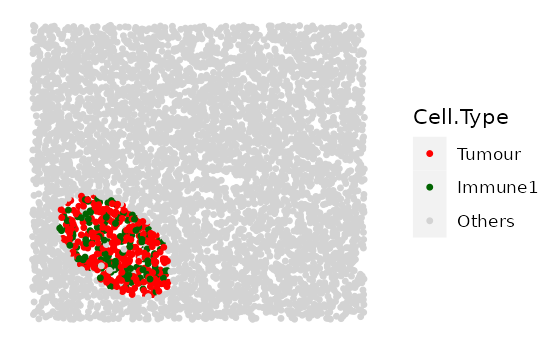
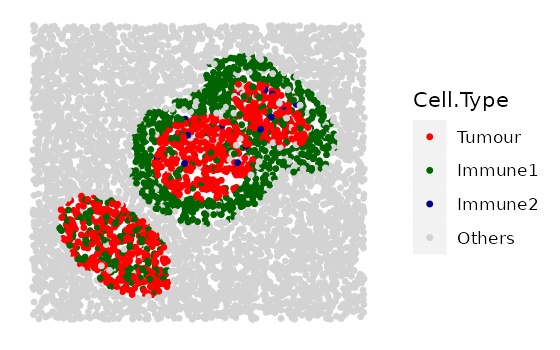
Built site for spaSim: 0.99.5@5d2f284

diff --git a/articles/vignette.html b/articles/vignette.html
@@ -33,7 +33,7 @@
       </button>
       <span class="navbar-brand">
         <a class="navbar-link" href="../index.html">spaSim</a>
-        <span class="version label label-default" data-toggle="tooltip" data-placement="bottom" title="">0.99.4</span>
+        <span class="version label label-default" data-toggle="tooltip" data-placement="bottom" title="">0.99.5</span>
       </span>
     </div>
 
@@ -74,7 +74,7 @@
       <h1 data-toc-skip>spaSim vignette</h1>
                         <h4 data-toc-skip class="author">Yuzhou Feng, Anna Trigos</h4>
                         
-            <h4 data-toc-skip class="date">19 October 2022</h4>
+            <h4 data-toc-skip class="date">24 October 2022</h4>
       
       
       <div class="hidden name"><code>vignette.Rmd</code></div>
@@ -116,7 +116,7 @@
 <span><span class="co">#&gt; To cite package 'spaSim' in publications use:</span></span>
 <span><span class="co">#&gt; </span></span>
 <span><span class="co">#&gt;   Feng Y, Trigos A (2022). _spaSim: Spatial point data simulator for</span></span>
-<span><span class="co">#&gt;   tissue images_. R package version 0.99.4,</span></span>
+<span><span class="co">#&gt;   tissue images_. R package version 0.99.5,</span></span>
 <span><span class="co">#&gt;   &lt;https://trigosteam.github.io/spaSim/&gt;.</span></span>
 <span><span class="co">#&gt; </span></span>
 <span><span class="co">#&gt; A BibTeX entry for LaTeX users is</span></span>
@@ -125,7 +125,7 @@
 <span><span class="co">#&gt;     title = {spaSim: Spatial point data simulator for tissue images},</span></span>
 <span><span class="co">#&gt;     author = {Yuzhou Feng and Anna Trigos},</span></span>
 <span><span class="co">#&gt;     year = {2022},</span></span>
-<span><span class="co">#&gt;     note = {R package version 0.99.4},</span></span>
+<span><span class="co">#&gt;     note = {R package version 0.99.5},</span></span>
 <span><span class="co">#&gt;     url = {https://trigosteam.github.io/spaSim/},</span></span>
 <span><span class="co">#&gt;   }</span></span></code></pre></div>
 </div>
@@ -362,9 +362,7 @@
 <span>   plot_image <span class="op">=</span> <span class="cn">TRUE</span>,</span>
 <span>   plot_categories <span class="op">=</span> <span class="fu"><a href="https://rdrr.io/r/base/c.html" class="external-link">c</a></span><span class="op">(</span><span class="st">"Tumour"</span>, <span class="st">"Immune1"</span>, <span class="st">"Immune2"</span>, <span class="st">"Others"</span><span class="op">)</span>,</span>
 <span>   plot_colours <span class="op">=</span> <span class="fu"><a href="https://rdrr.io/r/base/c.html" class="external-link">c</a></span><span class="op">(</span><span class="st">"red"</span>, <span class="st">"darkgreen"</span>, <span class="st">"darkblue"</span>, <span class="st">"lightgray"</span><span class="op">)</span><span class="op">)</span></span></code></pre></div>
-<p><img src="vignette_files/figure-html/unnamed-chunk-9-1.png" width="75%"></p>
-<pre><code><span><span class="co">#&gt; [1] "Immune2 cells were not found and not plotted."</span></span></code></pre>
-<p><img src="vignette_files/figure-html/unnamed-chunk-9-2.png" width="75%"><img src="vignette_files/figure-html/unnamed-chunk-9-3.png" width="75%"></p>
+<p><img src="vignette_files/figure-html/unnamed-chunk-9-1.png" width="75%"><img src="vignette_files/figure-html/unnamed-chunk-9-2.png" width="75%"></p>
 <p>The results display the construction of a complex image with multiple patterns. It started from a background image with cells of no identities, then tumour a cluster is layered on the background image, and finally, an immune ring that surrounds a tumour cluster is layered on the very top.</p>
 </div>
 </div>
@@ -377,7 +375,7 @@
 </h4>
 <p>This function aims to simulate a set of images that contain different proportions of specified cell types.</p>
 <p>In this example we simulate 4 images with 10% Tumour cells and an increasing number of Immune cells. We first specify the cell types and the proportions of each cell type in each image.</p>
-<div class="sourceCode" id="cb14"><pre class="downlit sourceCode r">
+<div class="sourceCode" id="cb13"><pre class="downlit sourceCode r">
 <code class="sourceCode R"><span><span class="co">#cell types present in each image</span></span>
 <span><span class="va">idents</span> <span class="op">&lt;-</span> <span class="fu"><a href="https://rdrr.io/r/base/c.html" class="external-link">c</a></span><span class="op">(</span><span class="st">"Tumour"</span>, <span class="st">"Immune"</span>, <span class="st">"Others"</span><span class="op">)</span></span>
 <span><span class="co"># Each vector corresponds to each cell type in `idents`. </span></span>
@@ -402,7 +400,7 @@
 <p>This function aims to simulate a set of images that contain different tumour/immune clusters.</p>
 <p>Note that in this function users cannot manually define the base shape and the primary cell type of the clusters. There are three options (<code>1</code>, <code>2</code>, and <code>3</code>) for the base shape available in the <code>cluster_shape</code> argument. <code>1</code> for a simple cluster where all cells are “Tumour”, <code>2</code> for a tumour cluster where the primary cell type is “Tumour” and there is infiltration of types “Immune” and “Others”, and <code>3</code> for an immune cluster where the primary cell type is “Immune” and the infiltration cell types are “Immune1” and “Others”.</p>
 <p>Here we simulate 4 images with increasing tumour cluster sizes using the cluster shape <code>1</code>.</p>
-<div class="sourceCode" id="cb15"><pre class="downlit sourceCode r">
+<div class="sourceCode" id="cb14"><pre class="downlit sourceCode r">
 <code class="sourceCode R"><span><span class="co"># if a property is fixed, use a number for that parameter.</span></span>
 <span><span class="co"># if a property spans a range, use a numeric vector for that parameter, e.g.</span></span>
 <span><span class="va">range_of_size</span> <span class="op">&lt;-</span> <span class="fu"><a href="https://rdrr.io/r/base/seq.html" class="external-link">seq</a></span><span class="op">(</span><span class="fl">200</span>, <span class="fl">500</span>, <span class="fl">100</span><span class="op">)</span></span>
@@ -418,7 +416,7 @@
 <span>                               plot_colours <span class="op">=</span> <span class="fu"><a href="https://rdrr.io/r/base/c.html" class="external-link">c</a></span><span class="op">(</span><span class="st">"red"</span>, <span class="st">"darkgreen"</span>, <span class="st">"lightgray"</span><span class="op">)</span><span class="op">)</span></span></code></pre></div>
 <p><img src="vignette_files/figure-html/unnamed-chunk-11-1.png" width="75%"><img src="vignette_files/figure-html/unnamed-chunk-11-2.png" width="75%"><img src="vignette_files/figure-html/unnamed-chunk-11-3.png" width="75%"><img src="vignette_files/figure-html/unnamed-chunk-11-4.png" width="75%"></p>
 <p>We will also include one example for shape <code>2</code> and one example for shape <code>3</code>.</p>
-<div class="sourceCode" id="cb16"><pre class="downlit sourceCode r">
+<div class="sourceCode" id="cb15"><pre class="downlit sourceCode r">
 <code class="sourceCode R"><span><span class="co"># shape "2" - Tumour cluster with more and more immune infiltration</span></span>
 <span><span class="va">range_of_infiltration</span> <span class="op">&lt;-</span> <span class="fu"><a href="https://rdrr.io/r/base/c.html" class="external-link">c</a></span><span class="op">(</span><span class="fl">0.1</span>, <span class="fl">0.3</span>, <span class="fl">0.5</span><span class="op">)</span></span>
 <span><span class="va">cluster_list</span> <span class="op">&lt;-</span> </span>
@@ -432,7 +430,7 @@
 <span>                                plot_categories <span class="op">=</span> <span class="fu"><a href="https://rdrr.io/r/base/c.html" class="external-link">c</a></span><span class="op">(</span><span class="st">"Tumour"</span> , <span class="st">"Immune"</span>, <span class="st">"Others"</span><span class="op">)</span>,</span>
 <span>                                plot_colours <span class="op">=</span> <span class="fu"><a href="https://rdrr.io/r/base/c.html" class="external-link">c</a></span><span class="op">(</span><span class="st">"red"</span>,<span class="st">"darkgreen"</span>, <span class="st">"lightgray"</span><span class="op">)</span><span class="op">)</span></span></code></pre></div>
 <p><img src="vignette_files/figure-html/unnamed-chunk-12-1.png" width="75%"><img src="vignette_files/figure-html/unnamed-chunk-12-2.png" width="75%"><img src="vignette_files/figure-html/unnamed-chunk-12-3.png" width="75%"></p>
-<div class="sourceCode" id="cb17"><pre class="downlit sourceCode r">
+<div class="sourceCode" id="cb16"><pre class="downlit sourceCode r">
 <code class="sourceCode R"><span><span class="co"># shape "3" - Immune cluster</span></span>
 <span><span class="va">cluster_list</span> <span class="op">&lt;-</span> </span>
 <span>  <span class="fu"><a href="../reference/multiple_images_with_clusters.html">multiple_images_with_clusters</a></span><span class="op">(</span>bg_sample <span class="op">=</span> <span class="va">bg1</span>,</span>
@@ -455,7 +453,7 @@
 <p>For <code>3</code>: - primary cluster cell type is “Tumour” - cluster infiltration cell types are “Immune” and “Others” - primary ring cell type is “Immune” - ring infiltration type is “Tumour” and “Others”</p>
 <p>The cluster size, infiltration proportions, cluster location, ring width, and ring infiltration proportions can be defined.</p>
 <p>Here we show 3 images with increasingly wider immune rings. First define any parameter that has a range.</p>
-<div class="sourceCode" id="cb18"><pre class="downlit sourceCode r">
+<div class="sourceCode" id="cb17"><pre class="downlit sourceCode r">
 <code class="sourceCode R"><span><span class="co"># if a property is to be fixed, use a number for that parameter.</span></span>
 <span><span class="co"># if a property is to span a range, use a numeric vector for that parameter, e.g.</span></span>
 <span><span class="va">range_ring_width</span> <span class="op">&lt;-</span> <span class="fu"><a href="https://rdrr.io/r/base/seq.html" class="external-link">seq</a></span><span class="op">(</span><span class="fl">50</span>, <span class="fl">120</span>, <span class="fl">30</span><span class="op">)</span></span>
@@ -476,7 +474,7 @@
 <span>                                   plot_colours <span class="op">=</span> <span class="fu"><a href="https://rdrr.io/r/base/c.html" class="external-link">c</a></span><span class="op">(</span><span class="st">"red"</span>, <span class="st">"darkgreen"</span>, <span class="st">"lightgray"</span><span class="op">)</span><span class="op">)</span></span></code></pre></div>
 <p><img src="vignette_files/figure-html/unnamed-chunk-14-1.png" width="75%"><img src="vignette_files/figure-html/unnamed-chunk-14-2.png" width="75%"><img src="vignette_files/figure-html/unnamed-chunk-14-3.png" width="75%"></p>
 <p>We will also include one example for ring shape <code>2</code> and one example for ring shape <code>3</code>.</p>
-<div class="sourceCode" id="cb19"><pre class="downlit sourceCode r">
+<div class="sourceCode" id="cb18"><pre class="downlit sourceCode r">
 <code class="sourceCode R"><span><span class="co"># shape "2" - Immune ring at different locations</span></span>
 <span><span class="va">cluster_loc_x</span> <span class="op">&lt;-</span> <span class="fu"><a href="https://rdrr.io/r/base/c.html" class="external-link">c</a></span><span class="op">(</span><span class="op">-</span><span class="fl">300</span>, <span class="fl">0</span>, <span class="fl">300</span><span class="op">)</span></span>
 <span><span class="va">cluster_loc_y</span> <span class="op">&lt;-</span> <span class="fu"><a href="https://rdrr.io/r/base/c.html" class="external-link">c</a></span><span class="op">(</span><span class="op">-</span><span class="fl">300</span>, <span class="fl">0</span>, <span class="fl">300</span><span class="op">)</span></span>
@@ -493,7 +491,7 @@
 <span>                                   plot_categories <span class="op">=</span> <span class="fu"><a href="https://rdrr.io/r/base/c.html" class="external-link">c</a></span><span class="op">(</span><span class="st">"Tumour"</span>, <span class="st">"Immune"</span>, <span class="st">"Others"</span><span class="op">)</span>,</span>
 <span>                                   plot_colours <span class="op">=</span> <span class="fu"><a href="https://rdrr.io/r/base/c.html" class="external-link">c</a></span><span class="op">(</span><span class="st">"red"</span>, <span class="st">"darkgreen"</span>, <span class="st">"lightgray"</span><span class="op">)</span><span class="op">)</span></span></code></pre></div>
 <p><img src="vignette_files/figure-html/unnamed-chunk-15-1.png" width="75%"><img src="vignette_files/figure-html/unnamed-chunk-15-2.png" width="75%"><img src="vignette_files/figure-html/unnamed-chunk-15-3.png" width="75%"></p>
-<div class="sourceCode" id="cb20"><pre class="downlit sourceCode r">
+<div class="sourceCode" id="cb19"><pre class="downlit sourceCode r">
 <code class="sourceCode R"><span><span class="co"># shape "3" - Immune ring has different "Tumour" proportions</span></span>
 <span><span class="va">prop_ring_infiltration</span> <span class="op">&lt;-</span> <span class="fu"><a href="https://rdrr.io/r/base/c.html" class="external-link">c</a></span><span class="op">(</span><span class="fl">0.1</span>, <span class="fl">0.2</span>, <span class="fl">0.3</span><span class="op">)</span></span>
 <span><span class="va">immune_ring_list</span> <span class="op">&lt;-</span> </span>
@@ -516,7 +514,7 @@
 </h3>
 <p>As <code>SPIAT</code> uses SingleCellExperiment object as the basic data structure for image processing and analysis, the simulated images from <code>spaSim</code> can be directly used as input in <code>SPIAT</code> functions. Examples in <code>SPIAT</code> packages use the images simulated by <code>spaSim</code>.</p>
 <p>Here is an example of using <code>SPIAT</code> function on <code>spaSim</code> image. We use <code>simulated_image</code> generated from one of the previous sections.</p>
-<div class="sourceCode" id="cb21"><pre class="downlit sourceCode r">
+<div class="sourceCode" id="cb20"><pre class="downlit sourceCode r">
 <code class="sourceCode R"><span><span class="co"># The following code will not run as SPIAT is still not released yet. You can try out the dev version on Github~</span></span>
 <span><span class="co"># if (requireNamespace("SPIAT", quietly = TRUE)) {</span></span>
 <span><span class="co">#   # visualise</span></span>
@@ -560,7 +558,7 @@
 </ul>
 <p>This package was developed using <em><a href="https://bioconductor.org/packages/3.15/biocthis" class="external-link">biocthis</a></em>.</p>
 <p>Code for creating the vignette</p>
-<div class="sourceCode" id="cb22"><pre class="downlit sourceCode r">
+<div class="sourceCode" id="cb21"><pre class="downlit sourceCode r">
 <code class="sourceCode R"><span><span class="co">## Create the vignette</span></span>
 <span><span class="kw"><a href="https://rdrr.io/r/base/library.html" class="external-link">library</a></span><span class="op">(</span><span class="st"><a href="https://github.com/rstudio/rmarkdown" class="external-link">"rmarkdown"</a></span><span class="op">)</span></span>
 <span><span class="fu"><a href="https://rdrr.io/r/base/system.time.html" class="external-link">system.time</a></span><span class="op">(</span><span class="fu"><a href="https://pkgs.rstudio.com/rmarkdown/reference/render.html" class="external-link">render</a></span><span class="op">(</span><span class="st">"vignette.Rmd"</span>, <span class="st">"BiocStyle::html_document"</span><span class="op">)</span><span class="op">)</span></span>
@@ -568,9 +566,9 @@
 <span><span class="kw"><a href="https://rdrr.io/r/base/library.html" class="external-link">library</a></span><span class="op">(</span><span class="st"><a href="https://yihui.org/knitr/" class="external-link">"knitr"</a></span><span class="op">)</span></span>
 <span><span class="fu"><a href="https://rdrr.io/pkg/knitr/man/knit.html" class="external-link">knit</a></span><span class="op">(</span><span class="st">"vignette.Rmd"</span>, tangle <span class="op">=</span> <span class="cn">TRUE</span><span class="op">)</span></span></code></pre></div>
 <p>Date the vignette was generated.</p>
-<pre><code><span><span class="co">#&gt; [1] "2022-10-19 05:21:00 UTC"</span></span></code></pre>
+<pre><code><span><span class="co">#&gt; [1] "2022-10-24 04:40:17 UTC"</span></span></code></pre>
 <p>Wallclock time spent generating the vignette.</p>
-<pre><code><span><span class="co">#&gt; Time difference of 59.242 secs</span></span></code></pre>
+<pre><code><span><span class="co">#&gt; Time difference of 1.695 mins</span></span></code></pre>
 <p><code>R</code> session information.</p>
 <pre><code><span><span class="co">#&gt; <span style="color: #00BBBB; font-weight: bold;">─ Session info ───────────────────────────────────────────────────────────────────────────────────────────────────────</span></span></span>
 <span><span class="co">#&gt;  <span style="color: #555555; font-style: italic;">setting </span> <span style="color: #555555; font-style: italic;">value</span></span></span>
@@ -582,7 +580,7 @@
 <span><span class="co">#&gt;  collate  C.UTF-8</span></span>
 <span><span class="co">#&gt;  ctype    C.UTF-8</span></span>
 <span><span class="co">#&gt;  tz       UTC</span></span>
-<span><span class="co">#&gt;  date     2022-10-19</span></span>
+<span><span class="co">#&gt;  date     2022-10-24</span></span>
 <span><span class="co">#&gt;  pandoc   2.7.3 @ /usr/bin/ (via rmarkdown)</span></span>
 <span><span class="co">#&gt; </span></span>
 <span><span class="co">#&gt; <span style="color: #00BBBB; font-weight: bold;">─ Packages ───────────────────────────────────────────────────────────────────────────────────────────────────────────</span></span></span>
@@ -631,7 +629,7 @@
 <span><span class="co">#&gt;  httr                   1.4.4    <span style="color: #555555;">2022-08-17</span> <span style="color: #555555;">[1]</span> <span style="color: #BB00BB; font-weight: bold;">RSPM</span></span></span>
 <span><span class="co">#&gt;  IRanges                2.30.1   <span style="color: #555555;">2022-08-18</span> <span style="color: #555555;">[1]</span> <span style="color: #555555;">Bioconductor</span></span></span>
 <span><span class="co">#&gt;  jquerylib              0.1.4    <span style="color: #555555;">2021-04-26</span> <span style="color: #555555;">[1]</span> <span style="color: #BB00BB; font-weight: bold;">RSPM</span></span></span>
-<span><span class="co">#&gt;  jsonlite               1.8.2    <span style="color: #555555;">2022-10-02</span> <span style="color: #555555;">[1]</span> <span style="color: #BB00BB; font-weight: bold;">RSPM</span></span></span>
+<span><span class="co">#&gt;  jsonlite               1.8.3    <span style="color: #555555;">2022-10-21</span> <span style="color: #555555;">[1]</span> <span style="color: #555555;">CRAN (R 4.2.1)</span></span></span>
 <span><span class="co">#&gt;  knitr                  1.40     <span style="color: #555555;">2022-08-24</span> <span style="color: #555555;">[1]</span> <span style="color: #BB00BB; font-weight: bold;">RSPM</span></span></span>
 <span><span class="co">#&gt;  labeling               0.4.2    <span style="color: #555555;">2020-10-20</span> <span style="color: #555555;">[1]</span> <span style="color: #BB00BB; font-weight: bold;">RSPM</span></span></span>
 <span><span class="co">#&gt;  lattice                0.20-45  <span style="color: #555555;">2021-09-22</span> <span style="color: #555555;">[2]</span> <span style="color: #555555;">CRAN (R 4.2.1)</span></span></span>
@@ -650,7 +648,7 @@
 <span><span class="co">#&gt;  pkgconfig              2.0.3    <span style="color: #555555;">2019-09-22</span> <span style="color: #555555;">[1]</span> <span style="color: #BB00BB; font-weight: bold;">RSPM</span></span></span>
 <span><span class="co">#&gt;  pkgdown                2.0.6    <span style="color: #555555;">2022-07-16</span> <span style="color: #555555;">[1]</span> <span style="color: #BB00BB; font-weight: bold;">RSPM</span></span></span>
 <span><span class="co">#&gt;  plyr                   1.8.7    <span style="color: #555555;">2022-03-24</span> <span style="color: #555555;">[1]</span> <span style="color: #BB00BB; font-weight: bold;">RSPM</span></span></span>
-<span><span class="co">#&gt;  polyclip               1.10-0   <span style="color: #555555;">2019-03-14</span> <span style="color: #555555;">[1]</span> <span style="color: #BB00BB; font-weight: bold;">RSPM</span></span></span>
+<span><span class="co">#&gt;  polyclip               1.10-4   <span style="color: #555555;">2022-10-20</span> <span style="color: #555555;">[1]</span> <span style="color: #BB00BB; font-weight: bold;">RSPM</span></span></span>
 <span><span class="co">#&gt;  purrr                  0.3.5    <span style="color: #555555;">2022-10-06</span> <span style="color: #555555;">[1]</span> <span style="color: #BB00BB; font-weight: bold;">RSPM</span></span></span>
 <span><span class="co">#&gt;  R.methodsS3            1.8.2    <span style="color: #555555;">2022-06-13</span> <span style="color: #555555;">[1]</span> <span style="color: #BB00BB; font-weight: bold;">RSPM</span></span></span>
 <span><span class="co">#&gt;  R.oo                   1.25.0   <span style="color: #555555;">2022-06-12</span> <span style="color: #555555;">[1]</span> <span style="color: #BB00BB; font-weight: bold;">RSPM</span></span></span>
@@ -674,12 +672,12 @@
 <span><span class="co">#&gt;  sessioninfo          * 1.2.2    <span style="color: #555555;">2021-12-06</span> <span style="color: #555555;">[1]</span> <span style="color: #BB00BB; font-weight: bold;">RSPM</span></span></span>
 <span><span class="co">#&gt;  SingleCellExperiment   1.18.1   <span style="color: #555555;">2022-10-02</span> <span style="color: #555555;">[1]</span> <span style="color: #555555;">Bioconductor</span></span></span>
 <span><span class="co">#&gt;  sparseMatrixStats      1.8.0    <span style="color: #555555;">2022-04-26</span> <span style="color: #555555;">[1]</span> <span style="color: #555555;">Bioconductor</span></span></span>
-<span><span class="co">#&gt;  spaSim               * 0.99.4   <span style="color: #555555;">2022-10-19</span> <span style="color: #555555;">[1]</span> <span style="color: #BB00BB; font-weight: bold;">local</span></span></span>
+<span><span class="co">#&gt;  spaSim               * 0.99.5   <span style="color: #555555;">2022-10-24</span> <span style="color: #555555;">[1]</span> <span style="color: #BB00BB; font-weight: bold;">local</span></span></span>
 <span><span class="co">#&gt;  SpatialExperiment      1.6.1    <span style="color: #555555;">2022-08-09</span> <span style="color: #555555;">[1]</span> <span style="color: #555555;">Bioconductor</span></span></span>
-<span><span class="co">#&gt;  spatstat.data          2.2-0    <span style="color: #555555;">2022-04-18</span> <span style="color: #555555;">[1]</span> <span style="color: #BB00BB; font-weight: bold;">RSPM</span></span></span>
+<span><span class="co">#&gt;  spatstat.data          3.0-0    <span style="color: #555555;">2022-10-21</span> <span style="color: #555555;">[1]</span> <span style="color: #555555;">CRAN (R 4.2.1)</span></span></span>
 <span><span class="co">#&gt;  spatstat.geom          2.4-0    <span style="color: #555555;">2022-03-29</span> <span style="color: #555555;">[1]</span> <span style="color: #BB00BB; font-weight: bold;">RSPM</span></span></span>
 <span><span class="co">#&gt;  spatstat.random        2.2-0    <span style="color: #555555;">2022-03-30</span> <span style="color: #555555;">[1]</span> <span style="color: #BB00BB; font-weight: bold;">RSPM</span></span></span>
-<span><span class="co">#&gt;  spatstat.utils         2.3-1    <span style="color: #555555;">2022-05-06</span> <span style="color: #555555;">[1]</span> <span style="color: #BB00BB; font-weight: bold;">RSPM</span></span></span>
+<span><span class="co">#&gt;  spatstat.utils         3.0-1    <span style="color: #555555;">2022-10-19</span> <span style="color: #555555;">[1]</span> <span style="color: #BB00BB; font-weight: bold;">RSPM</span></span></span>
 <span><span class="co">#&gt;  stringi                1.7.8    <span style="color: #555555;">2022-07-11</span> <span style="color: #555555;">[1]</span> <span style="color: #BB00BB; font-weight: bold;">RSPM</span></span></span>
 <span><span class="co">#&gt;  stringr                1.4.1    <span style="color: #555555;">2022-08-20</span> <span style="color: #555555;">[1]</span> <span style="color: #BB00BB; font-weight: bold;">RSPM</span></span></span>
 <span><span class="co">#&gt;  SummarizedExperiment   1.26.1   <span style="color: #555555;">2022-04-29</span> <span style="color: #555555;">[1]</span> <span style="color: #555555;">Bioconductor</span></span></span>
@@ -688,7 +686,7 @@
 <span><span class="co">#&gt;  tibble                 3.1.8    <span style="color: #555555;">2022-07-22</span> <span style="color: #555555;">[1]</span> <span style="color: #BB00BB; font-weight: bold;">RSPM</span></span></span>
 <span><span class="co">#&gt;  tidyselect             1.2.0    <span style="color: #555555;">2022-10-10</span> <span style="color: #555555;">[1]</span> <span style="color: #BB00BB; font-weight: bold;">RSPM</span></span></span>
 <span><span class="co">#&gt;  utf8                   1.2.2    <span style="color: #555555;">2021-07-24</span> <span style="color: #555555;">[1]</span> <span style="color: #BB00BB; font-weight: bold;">RSPM</span></span></span>
-<span><span class="co">#&gt;  vctrs                  0.4.2    <span style="color: #555555;">2022-09-29</span> <span style="color: #555555;">[1]</span> <span style="color: #BB00BB; font-weight: bold;">RSPM</span></span></span>
+<span><span class="co">#&gt;  vctrs                  0.5.0    <span style="color: #555555;">2022-10-22</span> <span style="color: #555555;">[1]</span> <span style="color: #555555;">CRAN (R 4.2.1)</span></span></span>
 <span><span class="co">#&gt;  xfun                   0.34     <span style="color: #555555;">2022-10-18</span> <span style="color: #555555;">[1]</span> <span style="color: #555555;">CRAN (R 4.2.1)</span></span></span>
 <span><span class="co">#&gt;  xml2                   1.3.3    <span style="color: #555555;">2021-11-30</span> <span style="color: #555555;">[1]</span> <span style="color: #BB00BB; font-weight: bold;">RSPM</span></span></span>
 <span><span class="co">#&gt;  XVector                0.36.0   <span style="color: #555555;">2022-04-26</span> <span style="color: #555555;">[1]</span> <span style="color: #555555;">Bioconductor</span></span></span>
@@ -708,7 +706,7 @@
 <a id="bib-allaire2022rmarkdown"></a><a href="#cite-allaire2022rmarkdown">[1]</a><cite> J. Allaire, Y. Xie, J. McPherson, et al. <em>rmarkdown: Dynamic Documents for R</em>. R package version 2.17. 2022. URL: <a href="https://github.com/rstudio/rmarkdown" class="external-link">https://github.com/rstudio/rmarkdown</a>.</cite>
 </p>
 <p>
-<a id="bib-feng2022spasim"></a><a href="#cite-feng2022spasim">[2]</a><cite> Y. Feng and A. Trigos. <em>spaSim: Spatial point data simulator for tissue images</em>. R package version 0.99.4. 2022. URL: <a href="https://trigosteam.github.io/spaSim/" class="external-link">https://trigosteam.github.io/spaSim/</a>.</cite>
+<a id="bib-feng2022spasim"></a><a href="#cite-feng2022spasim">[2]</a><cite> Y. Feng and A. Trigos. <em>spaSim: Spatial point data simulator for tissue images</em>. R package version 0.99.5. 2022. URL: <a href="https://trigosteam.github.io/spaSim/" class="external-link">https://trigosteam.github.io/spaSim/</a>.</cite>
 </p>
 <p>
 <a id="bib-mclean2017refmanager"></a><a href="#cite-mclean2017refmanager">[3]</a><cite> M. W. McLean. “RefManageR: Import and Manage BibTeX and BibLaTeX References in R”. In: <em>The Journal of Open Source Software</em> (2017). DOI: <a href="https://doi.org/10.21105/joss.00338" class="external-link">10.21105/joss.00338</a>.</cite>

diff --git a/authors.html b/authors.html
@@ -17,7 +17,7 @@
       </button>
       <span class="navbar-brand">
         <a class="navbar-link" href="index.html">spaSim</a>
-        <span class="version label label-default" data-toggle="tooltip" data-placement="bottom" title="">0.99.4</span>
+        <span class="version label label-default" data-toggle="tooltip" data-placement="bottom" title="">0.99.5</span>
       </span>
     </div>
 
@@ -71,13 +71,13 @@
 
     <p>Feng Y, Trigos A (2022).
 <em>spaSim: Spatial point data simulator for tissue images</em>.
-R package version 0.99.4, <a href="https://trigosteam.github.io/spaSim/" class="external-link">https://trigosteam.github.io/spaSim/</a>. 
+R package version 0.99.5, <a href="https://trigosteam.github.io/spaSim/" class="external-link">https://trigosteam.github.io/spaSim/</a>. 
 </p>
     <pre>@Manual{,
   title = {spaSim: Spatial point data simulator for tissue images},
   author = {Yuzhou Feng and Anna Trigos},
   year = {2022},
-  note = {R package version 0.99.4},
+  note = {R package version 0.99.5},
   url = {https://trigosteam.github.io/spaSim/},
 }</pre>
 

diff --git a/news/index.html b/news/index.html
@@ -17,7 +17,7 @@
       </button>
       <span class="navbar-brand">
         <a class="navbar-link" href="../index.html">spaSim</a>
-        <span class="version label label-default" data-toggle="tooltip" data-placement="bottom" title="">0.99.4</span>
+        <span class="version label label-default" data-toggle="tooltip" data-placement="bottom" title="">0.99.5</span>
       </span>
     </div>
 
@@ -51,6 +51,11 @@
       
     </div>
 
+    <div class="section level2">
+<h2 class="page-header" data-toc-text="0.99.5" id="spasim-0995">spaSim 0.99.5<a class="anchor" aria-label="anchor" href="#spasim-0995"></a></h2>
+<p>SIGNIFICANT USER CHANGE</p>
+<ul><li>
+<code><a href="../reference/TIS.html">TIS()</a></code> only plots one plot when arg <code>plot_image</code> is <code>TRUE</code>.</li></ul></div>
     <div class="section level2">
 <h2 class="page-header" data-toc-text="0.99.4" id="spasim-0994">spaSim 0.99.4<a class="anchor" aria-label="anchor" href="#spasim-0994"></a></h2>
 <p>SIGNIFICANT USER CHANGE</p>

diff --git a/reference/TIS.html b/reference/TIS.html
@@ -28,7 +28,7 @@ simulate_stripes"><!-- mathjax --><script src="https://cdnjs.cloudflare.com/ajax
       </button>
       <span class="navbar-brand">
         <a class="navbar-link" href="../index.html">spaSim</a>
-        <span class="version label label-default" data-toggle="tooltip" data-placement="bottom" title="">0.99.4</span>
+        <span class="version label label-default" data-toggle="tooltip" data-placement="bottom" title="">0.99.5</span>
       </span>
     </div>
 

diff --git a/reference/format_spe.html b/reference/format_spe.html
@@ -18,7 +18,7 @@ object where the count assay is empty."><!-- mathjax --><script src="https://cdn
       </button>
       <span class="navbar-brand">
         <a class="navbar-link" href="../index.html">spaSim</a>
-        <span class="version label label-default" data-toggle="tooltip" data-placement="bottom" title="">0.99.4</span>
+        <span class="version label label-default" data-toggle="tooltip" data-placement="bottom" title="">0.99.5</span>
       </span>
     </div>
 

diff --git a/reference/multiple_background_images.html b/reference/multiple_background_images.html
@@ -20,7 +20,7 @@ image simulation without the specification of any argument."><!-- mathjax --><sc
       </button>
       <span class="navbar-brand">
         <a class="navbar-link" href="../index.html">spaSim</a>
-        <span class="version label label-default" data-toggle="tooltip" data-placement="bottom" title="">0.99.4</span>
+        <span class="version label label-default" data-toggle="tooltip" data-placement="bottom" title="">0.99.5</span>
       </span>
     </div>
 

diff --git a/reference/multiple_images_with_clusters.html b/reference/multiple_images_with_clusters.html
@@ -21,7 +21,7 @@ without the specification of any argument."><!-- mathjax --><script src="https:/
       </button>
       <span class="navbar-brand">
         <a class="navbar-link" href="../index.html">spaSim</a>
-        <span class="version label label-default" data-toggle="tooltip" data-placement="bottom" title="">0.99.4</span>
+        <span class="version label label-default" data-toggle="tooltip" data-placement="bottom" title="">0.99.5</span>
       </span>
     </div>
 

diff --git a/reference/multiple_images_with_immune_rings.html b/reference/multiple_images_with_immune_rings.html
@@ -20,7 +20,7 @@ specification of any argument."><!-- mathjax --><script src="https://cdnjs.cloud
       </button>
       <span class="navbar-brand">
         <a class="navbar-link" href="../index.html">spaSim</a>
-        <span class="version label label-default" data-toggle="tooltip" data-placement="bottom" title="">0.99.4</span>
+        <span class="version label label-default" data-toggle="tooltip" data-placement="bottom" title="">0.99.5</span>
       </span>
     </div>
 

diff --git a/reference/plot_cells.html b/reference/plot_cells.html
@@ -19,7 +19,7 @@ will be coloured "lightgrey" and labled "Unspecified".'><!-- mathjax --><script 
       </button>
       <span class="navbar-brand">
         <a class="navbar-link" href="../index.html">spaSim</a>
-        <span class="version label label-default" data-toggle="tooltip" data-placement="bottom" title="">0.99.4</span>
+        <span class="version label label-default" data-toggle="tooltip" data-placement="bottom" title="">0.99.5</span>
       </span>
     </div>
 

diff --git a/reference/simulate_background_cells.html b/reference/simulate_background_cells.html
@@ -21,7 +21,7 @@ function uses rHardcore spatstat.random.'><!-- mathjax --><script src="https://c
       </button>
       <span class="navbar-brand">
         <a class="navbar-link" href="../index.html">spaSim</a>
-        <span class="version label label-default" data-toggle="tooltip" data-placement="bottom" title="">0.99.4</span>
+        <span class="version label label-default" data-toggle="tooltip" data-placement="bottom" title="">0.99.5</span>
       </span>
     </div>
 

diff --git a/reference/simulate_clusters.html b/reference/simulate_clusters.html
@@ -20,7 +20,7 @@ simulation of clusters without the specification of any argument."><!-- mathjax 
       </button>
       <span class="navbar-brand">
         <a class="navbar-link" href="../index.html">spaSim</a>
-        <span class="version label label-default" data-toggle="tooltip" data-placement="bottom" title="">0.99.4</span>
+        <span class="version label label-default" data-toggle="tooltip" data-placement="bottom" title="">0.99.5</span>
       </span>
     </div>
 

diff --git a/reference/simulate_double_rings.html b/reference/simulate_double_rings.html
@@ -23,7 +23,7 @@ specification of any argument."><!-- mathjax --><script src="https://cdnjs.cloud
       </button>
       <span class="navbar-brand">
         <a class="navbar-link" href="../index.html">spaSim</a>
-        <span class="version label label-default" data-toggle="tooltip" data-placement="bottom" title="">0.99.4</span>
+        <span class="version label label-default" data-toggle="tooltip" data-placement="bottom" title="">0.99.5</span>
       </span>
     </div>
 
